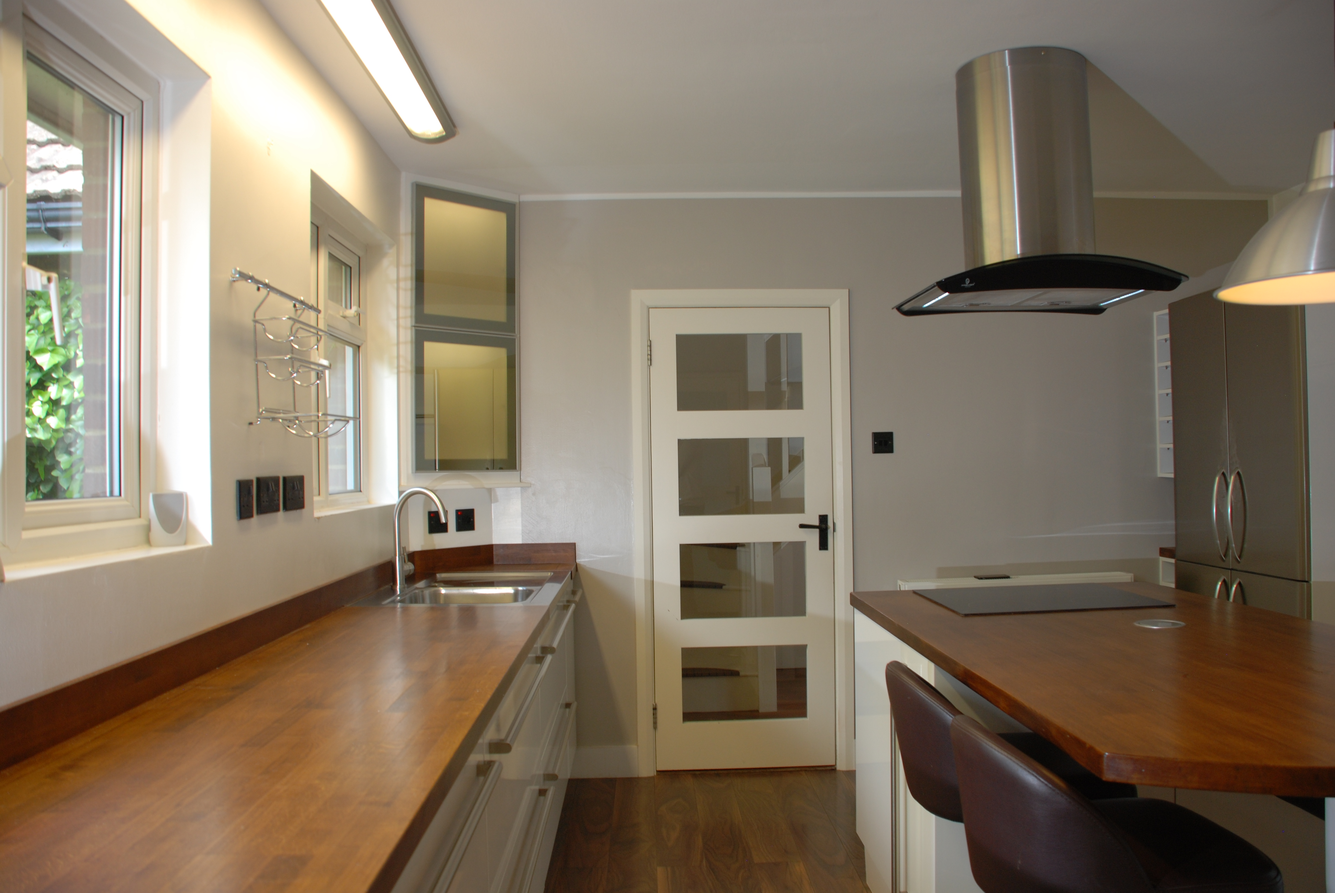
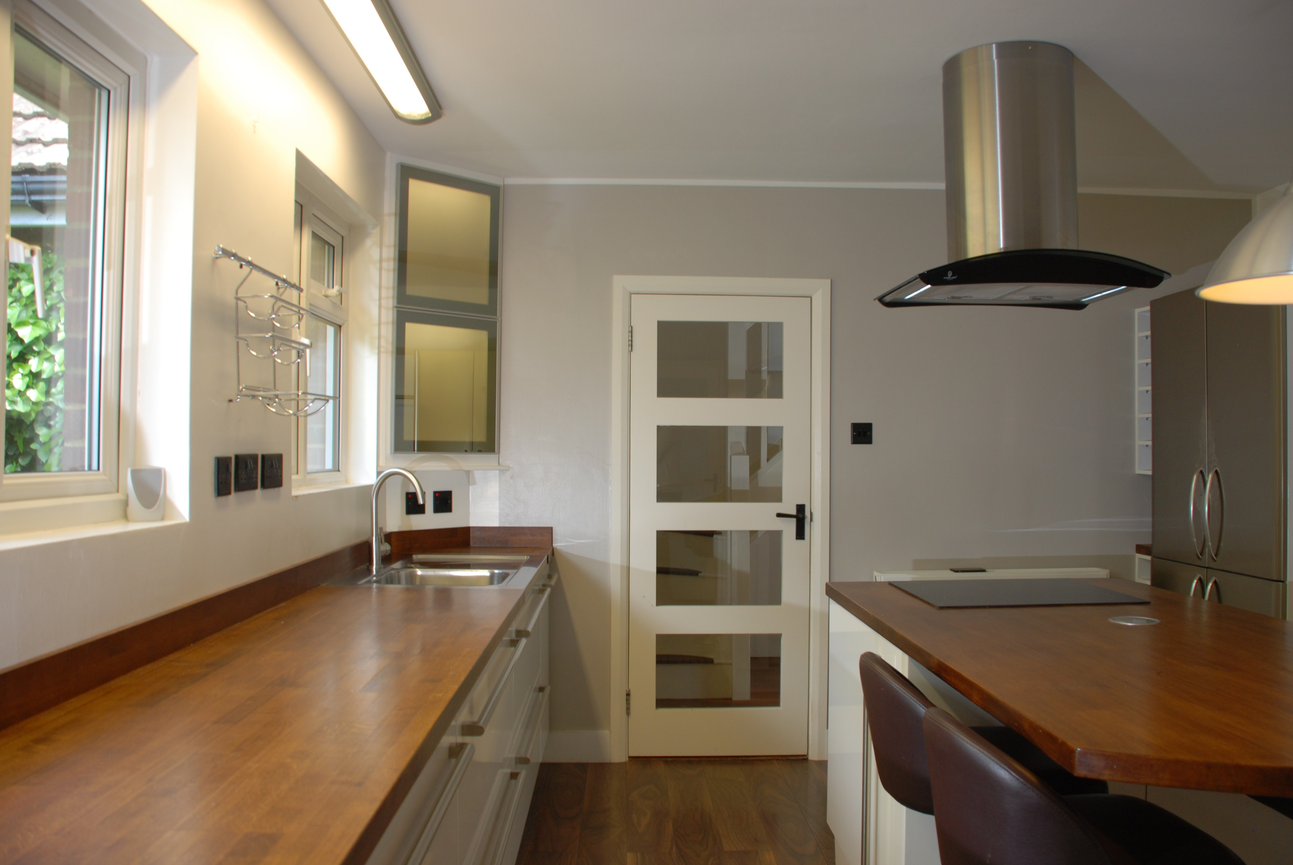
Kitchens case study completed

diff --git a/kitchens.js b/kitchens.js
@@ -12,7 +12,7 @@ const photos = [
 
     {
         file: "kga4.jpeg",
-        chapter: 1
+        chapter: 2
     },
 
     {
@@ -38,6 +38,10 @@ const photos = [
     {
         file: "kga9.jpeg",
         chapter: 3
+    },
+    {
+        file: "kga10.jpeg",
+        chapter: 3
     }
 
 ];
@@ -47,10 +51,7 @@ let current = 0;
 const front = document.getElementById("frontImage");
 const middle = document.getElementById("middleImage");
 const back = document.getElementById("backImage");
-
 const caption = document.getElementById("photoCaption");
-const counter = document.getElementById("photoCounter");
-
 const storyTitle = document.getElementById("storyTitle");
 const storyText = document.getElementById("storyText");
 
@@ -69,38 +70,42 @@ function updateGallery() {
 
     caption.textContent = photos[current].caption;
 
-    counter.textContent =
-        (current + 1) + " of " + photos.length;
-        switch (photos[current].chapter)
-{
+    switch (photos[current].chapter) {
 
     case 1:
 
         storyTitle.textContent =
-            "The Opportunity";
+            "A premium starting point...";
 
         storyText.innerHTML =
-            "<em>Your first narrative goes here...</em>";
+            `<em>What arrived as a van full of seemingly unrelated cabinets was carefully reconfigured
+             into a layout tailored specifically to the customer's home.  Full-drawer cabinets wired with
+             integrated led  lighting and oven housed in a central island</em>`;
 
         break;
 
     case 2:
 
         storyTitle.textContent =
-            "The Transformation";
+            "The finished kitchen";
 
         storyText.innerHTML =
-            "<em>Your second narrative goes here...</em>";
+            `<em>Rich 40mm solid walnut worktops, backlit glazed corner cabinet hiding services,
+             walnut upstands all round.  What a spectacle!  Flooring renewed with skirtings added.
+             Wine-racks utilise redundant space by the fridge with tray storage.  As many of the 
+             original cabinets as possible were re-purposed to maximise storage.
+             Customer's bottle-fed gas hob replaced with induction for compliance.</em>`;
 
         break;
 
     case 3:
 
         storyTitle.textContent =
-            "The Result";
+            "The extra touches";
 
         storyText.innerHTML =
-            "<em>Your final narrative goes here...</em>";
+            `<em>Larder with tambour door, pop-up sockets and stainless insert to complement fridge
+            make this a truly practical space.</em>`;
 
         break;
 }

diff --git a/kitchens.html b/kitchens.html
@@ -45,8 +45,8 @@
         thousand pounds, typically with new worktops and often including new appliances?
     </p>
 <p>Showroom kitchens are usually built to show off the best in cabinet styles and interiors and include top quality accessories such as
-    hidden lighting, soft close doors and drawers, pull-out storage, tambour doors, real wood trims, pop-up sockets, etc.  It's these extras that can make up big part of
-    the cost of a new kitchen, but also what set it apart and really make it work.  Examples below.
+    hidden led lighting, soft close doors and drawers, clever pull-out storage and bins, tambour doors, real wood trims, pop-up sockets, etc.
+     It's these extras that can make up big part of the cost of a new kitchen, but also what set it apart and really make it work.  Examples below.
 </p>
 
 <section class="kitchen-case-study">
@@ -67,6 +67,13 @@
             alt="Completed gloss white modern kitchen">
     </figure>
 
+<div class="kitchen-gallery">
+...
+</div>
+
+<aside class="story-panel">
+...
+</aside>
     <!-- Changing photographs and narrative -->
     <section class="kitchen-story">
 
@@ -119,9 +126,7 @@
 
             </div>
 
-            <span id="photoCounter">1 of 8</span>
-
-        </div>
+       </div>
 
         <!-- Static placeholder for the narrative initially -->
         <aside class="story-panel">

diff --git a/style.css b/style.css
@@ -725,6 +725,10 @@ nav a:hover {
     height: auto;
 }
 
+.kitchen-gallery {
+    margin-bottom: 30px;
+}
+
 #photoCounter {
     display: block;
     margin-top: 28px;
